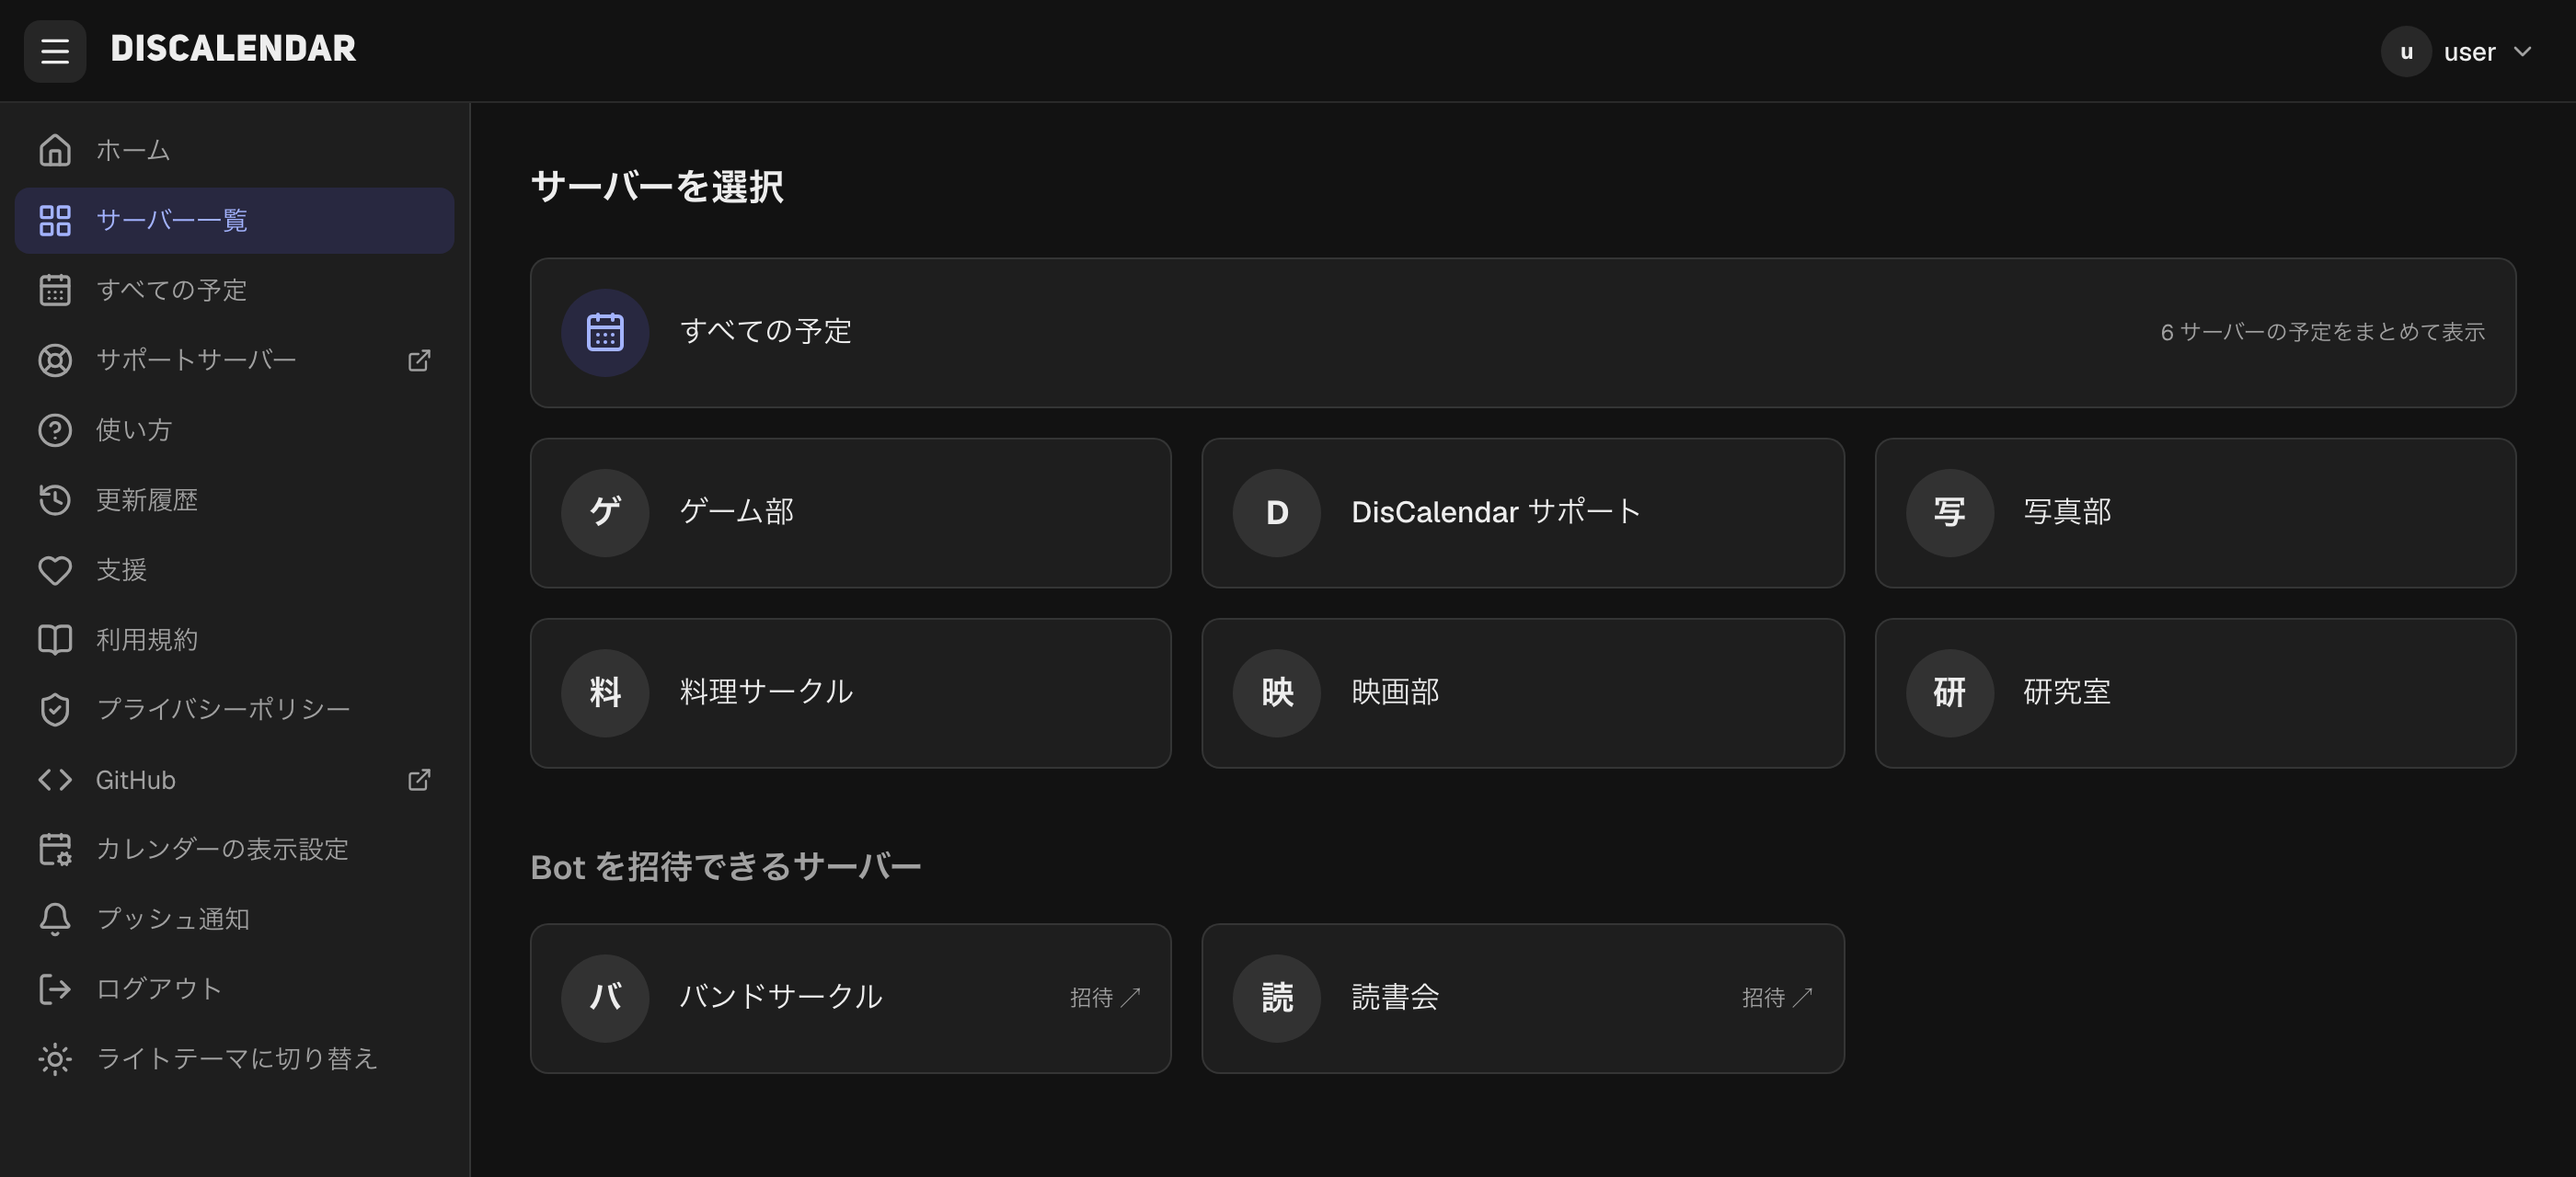
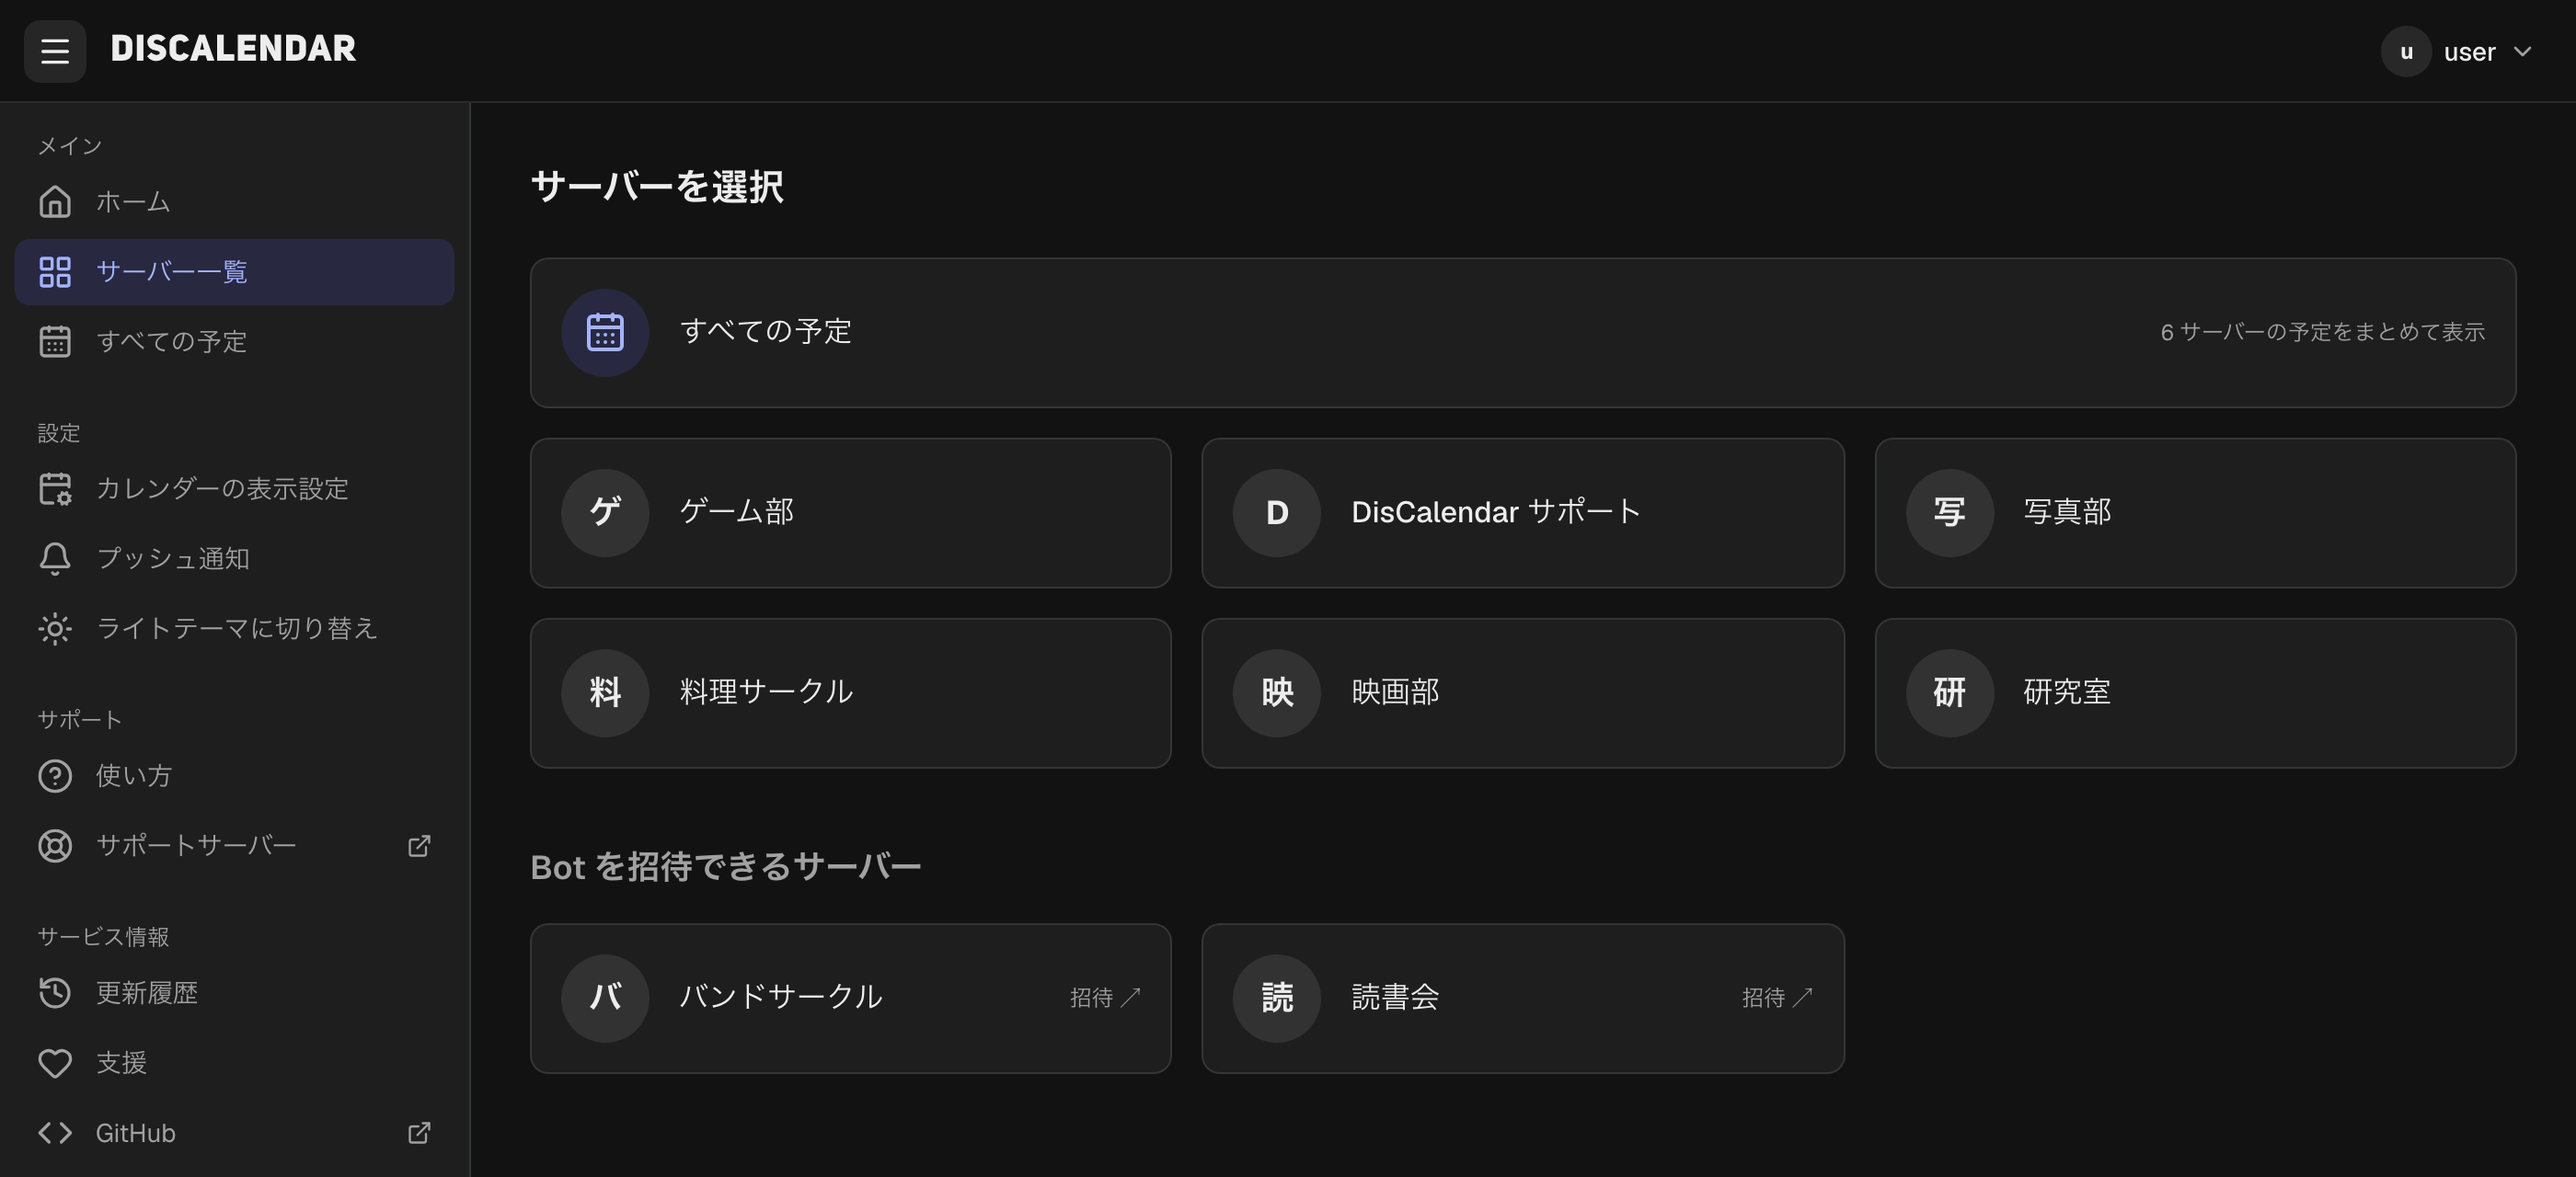
サイドバーを用途別のセクションに整理

diff --git a/web/src/components/dashboard-nav.tsx b/web/src/components/dashboard-nav.tsx
@@ -20,12 +20,22 @@ import {
 } from "lucide-react";
 import Link from "next/link";
 import { usePathname } from "next/navigation";
+import { useId } from "react";
 import { ThemeToggleContent, useThemeToggle } from "@/components/theme-toggle";
 import { useSignOut } from "@/hooks/use-sign-out";
 import { GITHUB_URL, ROUTES, SUPPORT_SERVER_URL } from "@/lib/site";
 import { cn } from "@/lib/utils";
 
+const SECTIONS = [
+  "メイン",
+  "設定",
+  "サポート",
+  "サービス情報",
+  "管理",
+] as const;
+
 interface NavItem {
+  section: (typeof SECTIONS)[number];
   label: string;
   icon: LucideIcon;
   href: string;
@@ -35,37 +45,68 @@ interface NavItem {
   adminOnly?: boolean;
 }
 
-// 旧実装 (components/header/NavDrawer.vue) と同じ並び (「更新履歴」「支援」は v3 で追加)。
-// 旧版と同じくテーマ切替は一覧の最後 (旧版の bottomItems 相当) に置く。
-// 「今日へ移動」は FullCalendar のツールバーに「今日」があるため入れていない。
-// 「ダッシュボード」は新 web の他の導線 (SessionLink / 管理コンソール) に合わせて「サーバー一覧」と呼ぶ。
-// 「すべての予定」(#98) は v3 で追加した横断カレンダー
+// PC とスマホで共通の分類・表示順。現在地の判定にも同じリンク一覧を使う。
 const ITEMS: NavItem[] = [
-  { label: "ホーム", icon: HouseIcon, href: ROUTES.home },
-  { label: "サーバー一覧", icon: LayoutGridIcon, href: ROUTES.dashboard },
+  { label: "ホーム", section: "メイン", icon: HouseIcon, href: ROUTES.home },
+  {
+    label: "サーバー一覧",
+    section: "メイン",
+    icon: LayoutGridIcon,
+    href: ROUTES.dashboard,
+  },
   {
     label: "すべての予定",
+    section: "メイン",
     icon: CalendarDaysIcon,
     href: ROUTES.dashboardAll,
   },
   {
+    label: "使い方",
+    section: "サポート",
+    icon: CircleHelpIcon,
+    href: ROUTES.docs,
+  },
+  {
     label: "サポートサーバー",
+    section: "サポート",
     icon: LifeBuoyIcon,
     href: SUPPORT_SERVER_URL,
     external: true,
   },
-  { label: "使い方", icon: CircleHelpIcon, href: ROUTES.docs },
-  { label: "更新履歴", icon: HistoryIcon, href: ROUTES.changelog },
-  { label: "支援", icon: HeartIcon, href: ROUTES.donation },
-  { label: "利用規約", icon: BookOpenIcon, href: ROUTES.tos },
+  {
+    label: "更新履歴",
+    section: "サービス情報",
+    icon: HistoryIcon,
+    href: ROUTES.changelog,
+  },
+  {
+    label: "支援",
+    section: "サービス情報",
+    icon: HeartIcon,
+    href: ROUTES.donation,
+  },
+  {
+    label: "GitHub",
+    section: "サービス情報",
+    icon: CodeIcon,
+    href: GITHUB_URL,
+    external: true,
+  },
+  {
+    label: "利用規約",
+    section: "サービス情報",
+    icon: BookOpenIcon,
+    href: ROUTES.tos,
+  },
   {
     label: "プライバシーポリシー",
+    section: "サービス情報",
     icon: ShieldCheckIcon,
     href: ROUTES.privacy,
   },
-  { label: "GitHub", icon: CodeIcon, href: GITHUB_URL, external: true },
   {
     label: "管理コンソール",
+    section: "管理",
     icon: WrenchIcon,
     href: ROUTES.admin,
     adminOnly: true,
@@ -128,74 +169,114 @@ export function DashboardNav({
   className,
 }: Props) {
   const pathname = usePathname();
+  const headingId = useId();
   const signOut = useSignOut();
   const toggleTheme = useThemeToggle();
 
   return (
     <nav
       aria-label="サイト内メニュー"
-      className={cn("flex flex-col gap-0.5 p-2", className)}
+      className={cn("flex flex-col gap-4 p-2", className)}
     >
-      <ul className="flex flex-col gap-0.5">
-        {ITEMS.filter((item) => admin || !item.adminOnly).map((item) => (
-          <li key={item.label}>
-            {item.external ? (
-              <a
-                href={item.href}
-                target="_blank"
-                rel="noopener noreferrer"
-                className={itemClass}
-                onClick={onNavigate}
-              >
-                <item.icon className="size-5 shrink-0" aria-hidden />
-                <span className="flex-1">{item.label}</span>
-                <ExternalLinkIcon
-                  className="size-3.5 text-muted-foreground"
-                  aria-hidden
-                />
-              </a>
-            ) : (
-              <Link
-                href={item.href}
-                aria-current={
-                  isCurrent(pathname, item.href) ? "page" : undefined
-                }
-                className={itemClass}
-                onClick={onNavigate}
-              >
-                <item.icon className="size-5 shrink-0" aria-hidden />
-                <span className="flex-1">{item.label}</span>
-              </Link>
-            )}
-          </li>
-        ))}
-        <li>
-          {/* ダイアログがドロワー (Sheet) と重ならないよう、開くときにドロワーは閉じる */}
-          <button
-            type="button"
-            className={itemClass}
-            onClick={() => {
-              onNavigate?.();
-              onOpenCalendarSettings();
-            }}
-          >
-            <CalendarCogIcon className="size-5 shrink-0" aria-hidden />
-            <span className="flex-1 text-left">カレンダーの表示設定</span>
-          </button>
-        </li>
-        <li>
-          <button
-            type="button"
-            className={itemClass}
-            onClick={() => {
-              onOpenPushSettings();
-              onNavigate?.();
-            }}
-          >
-            <BellIcon className="size-5 shrink-0" aria-hidden />
-            <span>プッシュ通知</span>
-          </button>
-        </li>
+      {SECTIONS.filter((section) => admin || section !== "管理").map(
+        (section) => (
+          <section key={section} aria-labelledby={`${headingId}-${section}`}>
+            <h2
+              id={`${headingId}-${section}`}
+              className="px-3 pb-1 pt-2 text-xs font-medium text-muted-foreground"
+            >
+              {section}
+            </h2>
+            <ul className="flex flex-col gap-0.5">
+              {ITEMS.filter(
+                (item) =>
+                  item.section === section && (admin || !item.adminOnly),
+              ).map((item) => (
+                <li key={item.label}>
+                  {item.external ? (
+                    <a
+                      href={item.href}
+                      target="_blank"
+                      rel="noopener noreferrer"
+                      className={itemClass}
+                      onClick={onNavigate}
+                    >
+                      <item.icon className="size-5 shrink-0" aria-hidden />
+                      <span className="flex-1">{item.label}</span>
+                      <ExternalLinkIcon
+                        className="size-3.5 text-muted-foreground"
+                        aria-hidden
+                      />
+                    </a>
+                  ) : (
+                    <Link
+                      href={item.href}
+                      aria-current={
+                        isCurrent(pathname, item.href) ? "page" : undefined
+                      }
+                      className={itemClass}
+                      onClick={onNavigate}
+                    >
+                      <item.icon className="size-5 shrink-0" aria-hidden />
+                      <span className="flex-1">{item.label}</span>
+                    </Link>
+                  )}
+                </li>
+              ))}
+              {section === "設定" && (
+                <>
+                  <li>
+                    {/* ダイアログがドロワー (Sheet) と重ならないよう、開くときにドロワーは閉じる */}
+                    <button
+                      type="button"
+                      className={itemClass}
+                      onClick={() => {
+                        onNavigate?.();
+                        onOpenCalendarSettings();
+                      }}
+                    >
+                      <CalendarCogIcon
+                        className="size-5 shrink-0"
+                        aria-hidden
+                      />
+                      <span className="flex-1 text-left">
+                        カレンダーの表示設定
+                      </span>
+                    </button>
+                  </li>
+                  <li>
+                    <button
+                      type="button"
+                      className={itemClass}
+                      onClick={() => {
+                        onOpenPushSettings();
+                        onNavigate?.();
+                      }}
+                    >
+                      <BellIcon className="size-5 shrink-0" aria-hidden />
+                      <span>プッシュ通知</span>
+                    </button>
+                  </li>
+                  <li>
+                    {/* テーマの切替はドロワーを開いたまま結果を確かめられるよう onNavigate を呼ばない */}
+                    <button
+                      type="button"
+                      className={itemClass}
+                      onClick={toggleTheme}
+                    >
+                      <ThemeToggleContent
+                        iconClassName="size-5 shrink-0"
+                        labelClassName="flex-1 text-left"
+                      />
+                    </button>
+                  </li>
+                </>
+              )}
+            </ul>
+          </section>
+        ),
+      )}
+      <ul className="border-t border-border pt-2">
         <li>
           <button
             type="button"
@@ -207,15 +288,6 @@ export function DashboardNav({
           >
             <LogOutIcon className="size-5 shrink-0" aria-hidden />
             <span className="flex-1 text-left">ログアウト</span>
-          </button>
-        </li>
-        <li>
-          {/* テーマの切替はドロワーを開いたまま結果を確かめられるよう onNavigate を呼ばない */}
-          <button type="button" className={itemClass} onClick={toggleTheme}>
-            <ThemeToggleContent
-              iconClassName="size-5 shrink-0"
-              labelClassName="flex-1 text-left"
-            />
           </button>
         </li>
       </ul>

diff --git a/web/e2e/navigation.spec.ts b/web/e2e/navigation.spec.ts
@@ -34,6 +34,38 @@ async function expectNavLinks(page: Page) {
   await expect(nav.getByRole("link", { name: "管理コンソール" })).toHaveCount(
     0,
   );
+  await expect(nav.getByRole("heading")).toHaveText([
+    "メイン",
+    "設定",
+    "サポート",
+    "サービス情報",
+  ]);
+  for (const [name, links] of [
+    ["メイン", ["ホーム", "サーバー一覧", "すべての予定"]],
+    ["サポート", ["使い方", "サポートサーバー"]],
+    [
+      "サービス情報",
+      ["更新履歴", "支援", "GitHub", "利用規約", "プライバシーポリシー"],
+    ],
+  ] as const) {
+    await expect(
+      nav.getByRole("region", { name, exact: true }).getByRole("link"),
+    ).toHaveText([...links]);
+  }
+  const settings = nav.getByRole("region", { name: "設定", exact: true });
+  await expect(settings.getByRole("button")).toHaveCount(3);
+  await expect(
+    settings.getByRole("button", { name: "カレンダーの表示設定" }),
+  ).toBeVisible();
+  await expect(
+    settings.getByRole("button", { name: "プッシュ通知" }),
+  ).toBeVisible();
+  await expect(
+    settings.getByRole("button", { name: /テーマに切り替え/ }),
+  ).toBeVisible();
+  await expect(
+    nav.getByRole("region", { name: "管理", exact: true }),
+  ).toHaveCount(0);
   await expect(nav.getByRole("button", { name: "ログアウト" })).toBeVisible();
 }
 
@@ -120,3 +152,42 @@ test.describe("スマホ幅", () => {
     await expect(menu).toBeHidden();
   });
 });
+
+for (const width of [1280, 375]) {
+  test(`${width}px 幅の低い画面でも設定を操作でき、末尾までスクロールできる`, async ({
+    page,
+  }, testInfo) => {
+    await page.setViewportSize({ width, height: 600 });
+    await page.goto("/dashboard");
+    if (width < 1024) {
+      await page.getByRole("button", { name: "メニュー", exact: true }).click();
+    }
+    const nav = sidebar(page);
+    for (const theme of ["dark", "light"] as const) {
+      if (theme === "light") {
+        await nav
+          .getByRole("button", { name: "ライトテーマに切り替え" })
+          .click();
+      }
+      await expect(page.locator("html")).toHaveAttribute(
+        "data-color-scheme",
+        theme,
+      );
+      await nav
+        .getByRole("heading", { name: "メイン", exact: true })
+        .scrollIntoViewIfNeeded();
+      await page.screenshot({ path: testInfo.outputPath(`${theme}-top.png`) });
+      const logout = nav.getByRole("button", { name: "ログアウト" });
+      await logout.scrollIntoViewIfNeeded();
+      await expect(logout).toBeInViewport();
+      await page.screenshot({
+        path: testInfo.outputPath(`${theme}-bottom.png`),
+      });
+    }
+    await nav.getByRole("button", { name: "プッシュ通知" }).click();
+    await expect(
+      page.getByRole("dialog", { name: "プッシュ通知", exact: true }),
+    ).toBeVisible();
+    if (width < 1024) await expect(nav).toBeHidden();
+  });
+}
